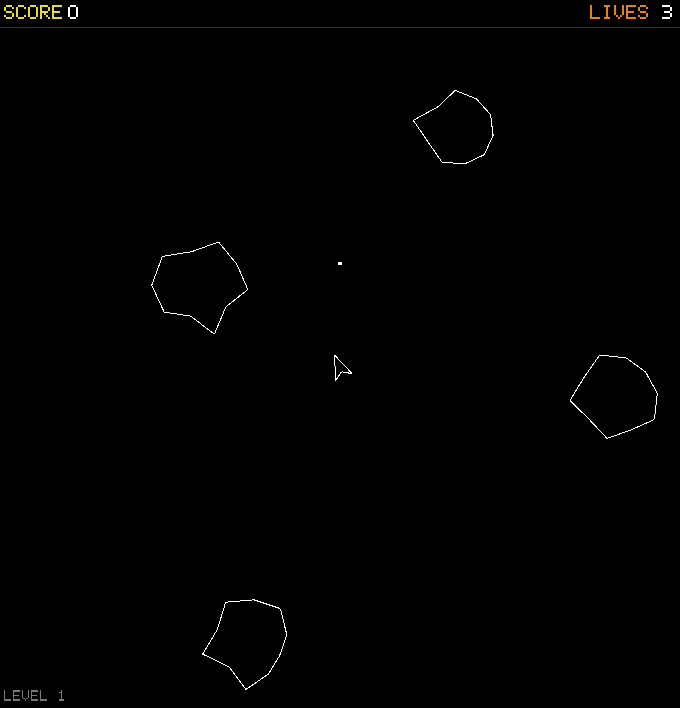
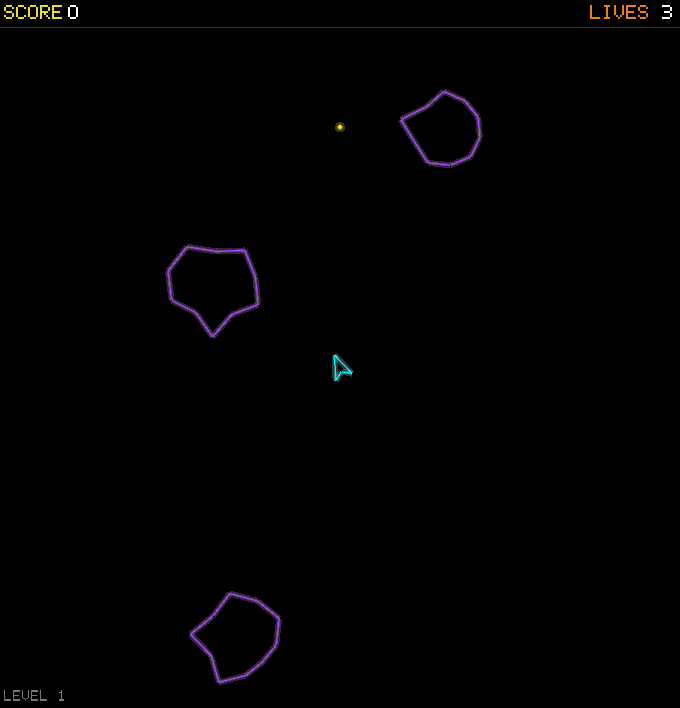
kiosk: fix Meteors' blurry/jagged screenshot thumbnail
Two problems: the screenshot itself predated the neon-glow visual
refresh (still showed the old plain-white line art), and .card-shot
forces image-rendering: pixelated for crisp nearest-neighbor scaling
of the other games' pixel-art sprite screenshots — but nearest-
neighbor scaling turns Meteors' anti-aliased vector line art into
jagged, moiré-ridden noise at thumbnail size (the HUD text was barely
legible). Regenerate the screenshot from the current build and give
Meteors' thumbnail a normal smooth downscale instead.

diff --git a/web/index.html b/web/index.html
@@ -276,6 +276,13 @@
       image-rendering: pixelated;
     }
 
+    /* Meteors is anti-aliased vector line art, not pixel-art sprites —
+       nearest-neighbor scaling turns its smooth lines into jagged noise
+       at thumbnail size, so give it a normal smooth downscale instead. */
+    .card-meteors .card-shot {
+      image-rendering: auto;
+    }
+
     .card-title {
       font-size: clamp(1rem, 3vw, 1.4rem);
       letter-spacing: .2em;
@@ -598,7 +605,7 @@
     <!-- METEORS -->
     <a class="card card-meteors" href="meteors/index.html">
       <div class="card-shot-wrap">
-        <img class="card-shot" src="meteors/screenshot.png" alt="Meteors gameplay">
+        <img class="card-shot" src="meteors/screenshot.png?v=2" alt="Meteors gameplay">
       </div>
       <div class="card-title">METEORS</div>
       <div class="card-genre"  data-i18n="meteorsGenre"></div>

diff --git a/web/sw.js b/web/sw.js
@@ -1,4 +1,4 @@
-var CACHE = 'blip-v13';
+var CACHE = 'blip-v14';
 
 var ASSETS = [
   '/blip/',
